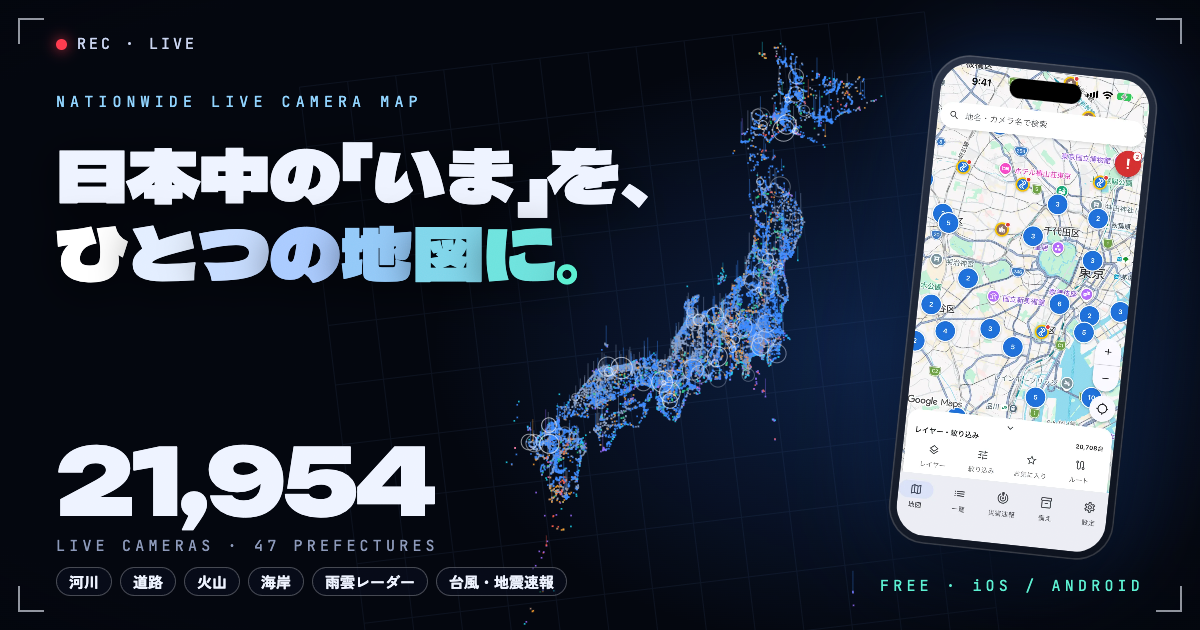
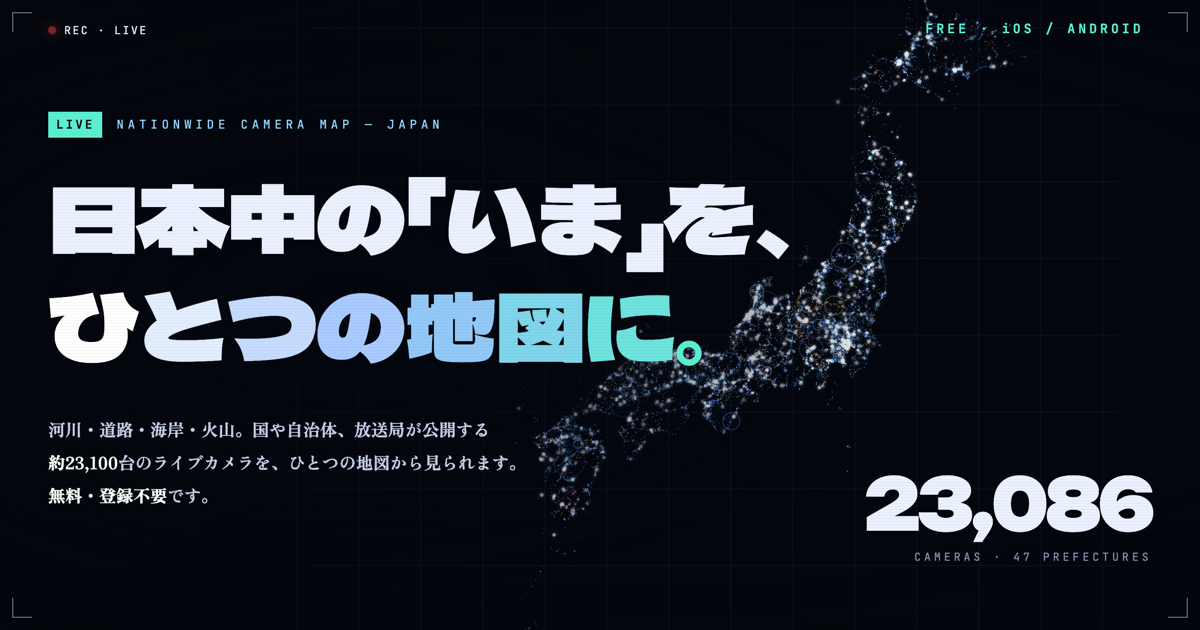
公式サイト: SNS カード画像を新しい LP の冒頭画面に差し替え（og:image に ?v=2 を付けて X の控えを更新させる）

diff --git a/site/index.html b/site/index.html
@@ -13,14 +13,14 @@
 <meta property="og:url" content="https://kotopapa.github.io/livecam-jp/">
 <meta property="og:site_name" content="全国ライブカメラ地図">
 <meta property="og:locale" content="ja_JP">
-<meta property="og:image" content="https://kotopapa.github.io/livecam-jp/lp/og.png">
+<meta property="og:image" content="https://kotopapa.github.io/livecam-jp/lp/og.png?v=2">
 <meta property="og:image:width" content="1200">
 <meta property="og:image:height" content="630">
 <meta property="og:image:alt" content="日本中の「いま」を、ひとつの地図に。全国のライブカメラを地図で見られるアプリ">
 <meta name="twitter:card" content="summary_large_image">
 <meta name="twitter:title" content="全国ライブカメラ地図｜日本中の「いま」を、ひとつの地図に。">
 <meta name="twitter:description" content="河川・道路・海岸・火山。約23,100台のライブカメラを地図から、無料で。">
-<meta name="twitter:image" content="https://kotopapa.github.io/livecam-jp/lp/og.png">
+<meta name="twitter:image" content="https://kotopapa.github.io/livecam-jp/lp/og.png?v=2">
 <link rel="icon" href="lp/icon.png">
 <link rel="apple-touch-icon" href="lp/icon.png">
 <link rel="preconnect" href="https://fonts.googleapis.com">
